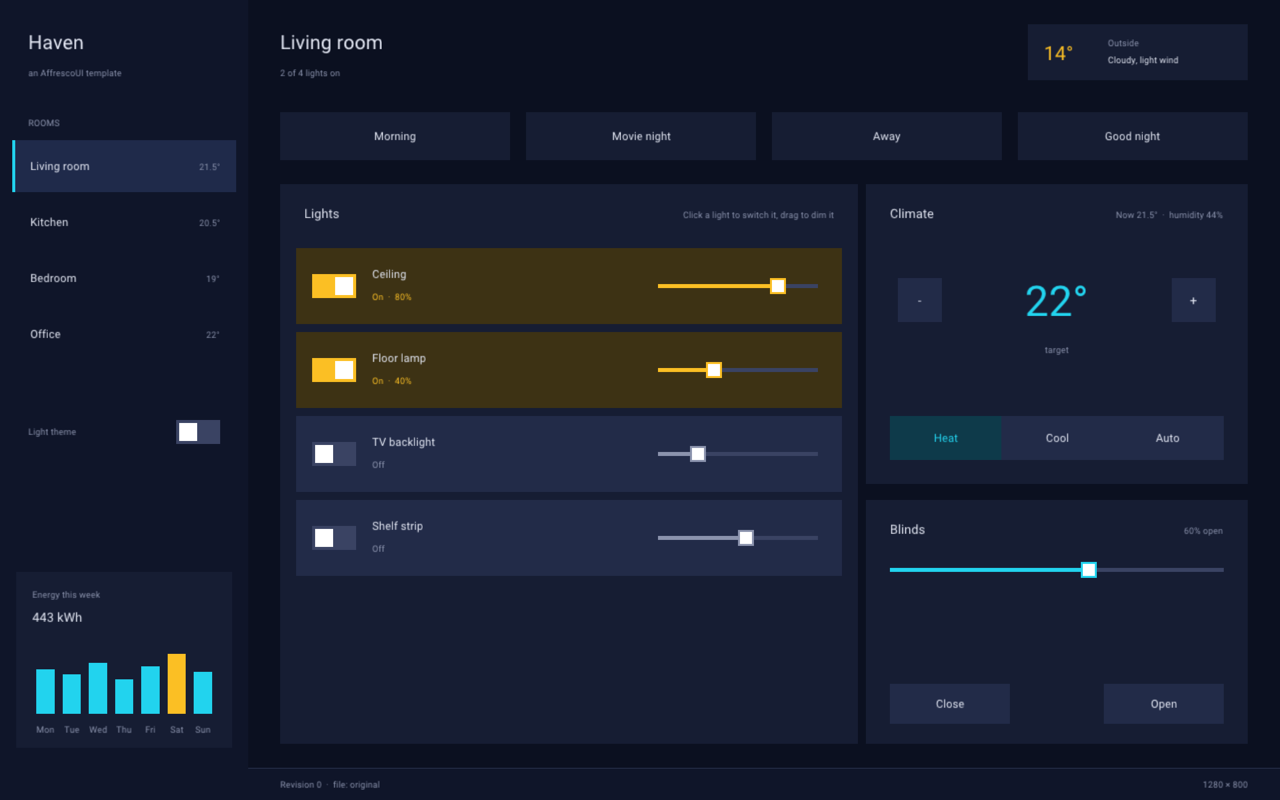
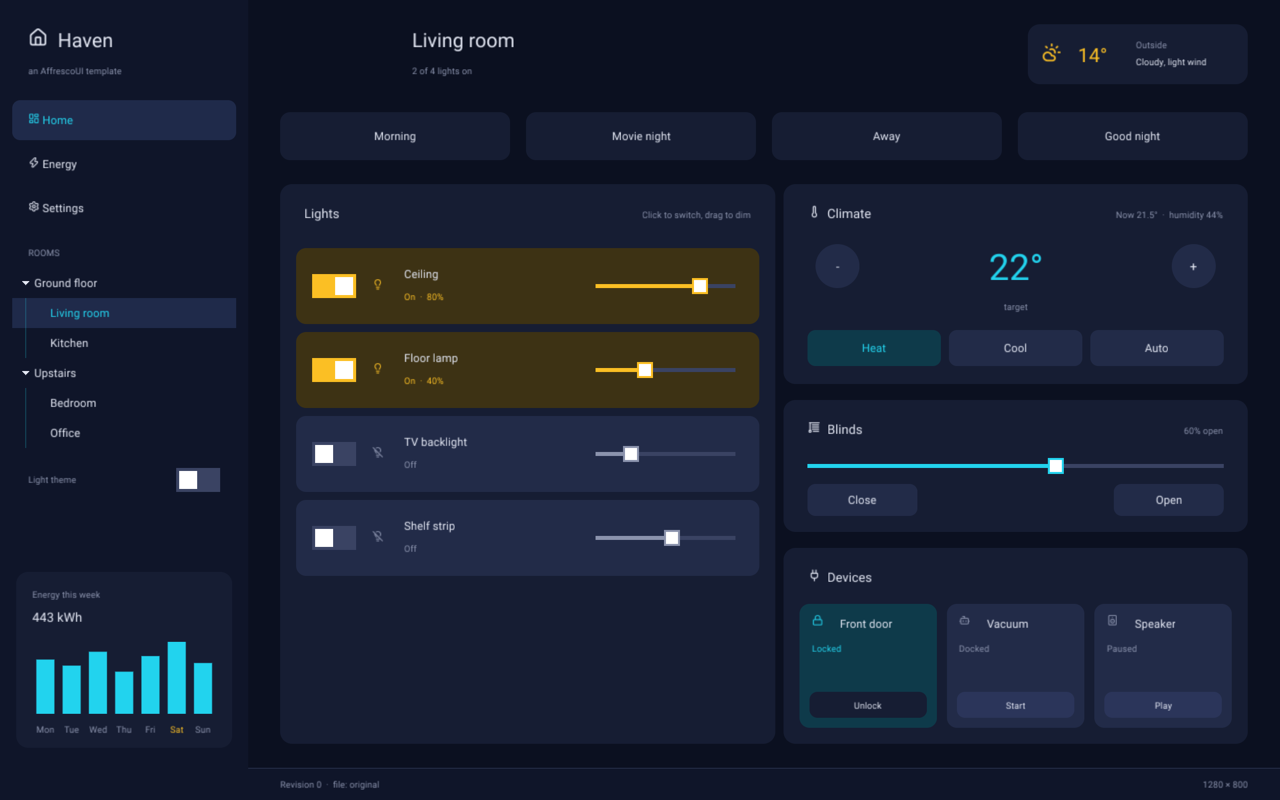
[readme-showcase] The README shows every application at its new version

diff --git a/README.md b/README.md
@@ -16,7 +16,7 @@
 
 <br/>
 
-<img src=".github/media/kanban-after.png" width="860" alt="The Flow Kanban board template, rendered natively by AffrescoUI after an AI agent added a Blocked column while it ran">
+<img src=".github/media/kanban-after.png" width="860" alt="The Flow Kanban board with tabs, a split and a cards-per-column chart, rendered natively by AffrescoUI after an AI agent added a Blocked column while it ran">
 
 <sub>A native C++ / OpenGL Kanban board. Claude Code proposed a new <b>Blocked</b> column over the agent socket: new
 data and a five-column layout in one revision. It was reviewed and accepted while the app kept running, and it can
@@ -34,8 +34,8 @@ running. Your typing, focus and drags survive.
 
 <table>
 <tr>
-<td width="50%" align="center"><img src=".github/media/kanban.png" alt="Kanban board at revision 0"><br/><sub><b>Revision 0</b>: the template as shipped</sub></td>
-<td width="50%" align="center"><img src=".github/media/kanban-after.png" alt="Kanban board at revision 1"><br/><sub><b>Revision 1</b>: <code>agent/claude-code</code> added a Blocked column</sub></td>
+<td width="50%" align="center"><img src=".github/media/kanban.png" alt="The Flow Kanban board at revision 0, with tabs, a split and a details panel"><br/><sub><b>Revision 0</b>: the template as shipped</sub></td>
+<td width="50%" align="center"><img src=".github/media/kanban-after.png" alt="The Flow Kanban board at revision 1, with a Blocked column added by an agent"><br/><sub><b>Revision 1</b>: <code>agent/claude-code</code> added a Blocked column</sub></td>
 </tr>
 </table>
 
@@ -239,8 +239,8 @@ flowchart LR
    or restored. See [VERSION_CONTROL.md](VERSION_CONTROL.md).
 
 <p align="center">
-<img src=".github/media/studio.png" width="640" alt="The AffrescoUI Studio: ask the AI, direct changes, review each proposal's changes line by line with modes and grants, activity and history"><br/>
-<sub>The <b>AffrescoUI Studio</b>, a client that is itself an AffrescoUI screen (layout, behaviour and its connection, no C++): ask the AI, edit directly, review each change line by line, always allow, revert, restore.</sub>
+<img src=".github/media/studio.png" width="640" alt="The AffrescoUI Studio, connected to a host: ask the AI, direct changes, and the Review, History and Rules tabs in a resizable split"><br/>
+<sub>The <b>AffrescoUI Studio</b>, a client that is itself an AffrescoUI screen (layout, behaviour and its connection, no C++): ask the AI, edit directly, then review each proposal on the Review tab, browse the History table (revert, restore) and set the mode and grants on Rules. Dark by default, Cmd+J for light.</sub>
 </p>
 
 ## Quick start
@@ -279,20 +279,24 @@ every template and compares each frame with a golden image, pixel for pixel
 
 ## Templates
 
-Five starting points, each a single `.screen.json` file with its layout, state and behaviour, and each ready to be
+Seven starting points, each a single `.screen.json` file with its layout, state and behaviour, and each ready to be
 reshaped live by an agent. Open any of them with `./build/affrescoui_host examples/assets/screens/<name>.screen.json`.
 
 <table>
 <tr>
-<td width="50%" valign="top"><img src=".github/media/kanban.png" alt="Flow, a Kanban board"><br/><b>Flow</b> · <code>kanban</code><br/><sub>Columns, cards, label filters, drag and drop, a members popover, quick add.</sub></td>
-<td width="50%" valign="top"><img src=".github/media/smart-home.png" alt="Haven, a smart-home panel"><br/><b>Haven</b> · <code>smart-home</code><br/><sub>Rooms, switches and dimmers, thermostat, blinds, animated scenes, light and dark themes.</sub></td>
+<td width="50%" valign="top"><img src=".github/media/kanban.png" alt="Flow, a Kanban board with tabs, a split and a chart"><br/><b>Flow</b> · <code>kanban</code><br/><sub>Boards in tabs, a board or a sortable card table beside a details panel with a chart and notes, a card context menu, an edit dialog, toasts, a go-to-card quick pick and a command palette, light and dark tokens.</sub></td>
+<td width="50%" valign="top"><img src=".github/media/smart-home.png" alt="Haven, a smart-home panel with a room tree"><br/><b>Haven</b> · <code>smart-home</code><br/><sub>Rooms in a tree by floor, device tiles with a simulated async call, an Energy page of charts and a room table, a Settings page built from a schema.</sub></td>
 </tr>
 <tr>
-<td valign="top"><img src=".github/media/music-player.png" alt="Tempo, a music player"><br/><b>Tempo</b> · <code>music-player</code><br/><sub>Playlists, a playback timer, seeking, volume, keyboard controls.</sub></td>
-<td valign="top"><img src=".github/media/code-editor.png" alt="Forge, a code editor"><br/><b>Forge</b> · <code>code-editor</code><br/><sub>A real code editor (selection, undo, Cmd+/, unsaved dots, Cmd+S), explorer, tabs, a terminal that answers, a Cmd+P palette.</sub></td>
+<td valign="top"><img src=".github/media/music-player.png" alt="Tempo, a music player with album art and a queue"><br/><b>Tempo</b> · <code>music-player</code><br/><sub>Album art, playlists or a sortable 3,000-song library beside a queue with a waveform, Cmd+P song finder and a command palette, a level meter.</sub></td>
+<td valign="top"><img src=".github/media/code-editor.png" alt="Bottega, a code editor with a file tree and tabs"><br/><b>Bottega</b> · <code>code-editor</code><br/><sub>A file tree, tabs with unsaved markers that ask before closing, a 5,000-line file, a problems table (TODO, FIXME), quick open and a command palette.</sub></td>
 </tr>
 <tr>
-<td valign="top"><img src=".github/media/habit-tracker.png" alt="Streak, a habit tracker"><br/><b>Streak</b> · <code>habit-tracker</code><br/><sub>Daily habits, streaks, a clickable 20-week grid, kept on disk between runs.</sub></td>
+<td valign="top"><img src=".github/media/habit-tracker.png" alt="Streak, a habit tracker with charts"><br/><b>Streak</b> · <code>habit-tracker</code><br/><sub>Today, History and Notes tabs, completion and streak charts, a New habit dialog, a sortable 137-day table, linked notes, light and dark tokens.</sub></td>
+<td valign="top"><img src=".github/media/sign-in.png" alt="Sign in, a form with validated fields"><br/><b>Sign in</b> · <code>sign-in</code><br/><sub>Validated fields with icons and error states, remember me, a password strength meter, a forgot-password dialog, light and dark tokens.</sub></td>
+</tr>
+<tr>
+<td valign="top"><img src=".github/media/forge.png" alt="Forge, a demo IDE workbench"><br/><b>Forge</b> · <code>examples/forge</code><br/><sub>A demo IDE whose whole interface is one screen document: the workbench shell, command palette, themes and panels. Run <code>./build/affrescoui_forge</code>.</sub></td>
 <td valign="top"><br/><sub>Ideas for an agent to try: <i>"add a Blocked column"</i>, <i>"a Movie night scene that dims every light"</i>,
 <i>"show the album name under the track title"</i>, <i>"a dark theme for the habit tracker"</i>.</sub></td>
 </tr>
@@ -361,7 +365,7 @@ target_link_libraries(my_app PRIVATE affrescoui::affrescoui)
   overlays, tooltips, timers, typed input events, mouse capture, hover, cursors, TrueType text with wrap and
   fit-to-text, a text input with caret and paste, a multi-line text editor (selection, undo, clipboard), switches and
   sliders, HiDPI.
-- **Examples:** `affrescoui_host` (any screen, the Kanban template by default), five templates and a sign-in screen,
+- **Examples:** `affrescoui_host` (any screen, the Kanban template by default), seven templates, the Forge workbench,
   `affrescoui_studio` (a client that is itself an AffrescoUI screen, connection included), and the MCP server.
 
 </details>
